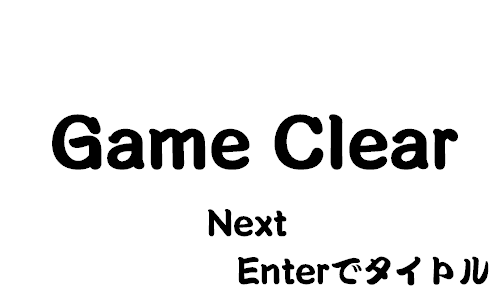
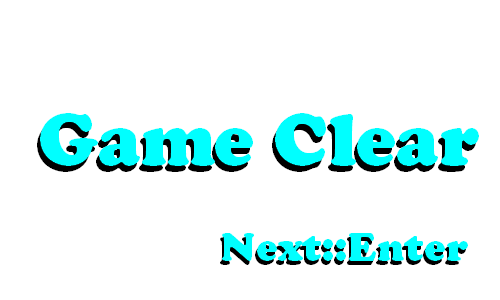
ポーズ選択完成

Changed region(s): [[0.39, 0.69, 0.99, 0.96], [0.06, 0.36, 0.51, 0.57], [0.54, 0.36, 0.96, 0.57]]

diff --git a/DirectXGame/DirectXGame/engine/secne/GameScene.cpp b/DirectXGame/DirectXGame/engine/secne/GameScene.cpp
@@ -75,12 +75,12 @@ void GameScene::Initialize() {
 	gameOverSprite_.reset(KamataEngine::Sprite::Create(gameOverTextureHandle_, {400.0f, 200.0f}));
 
 	// 出現スプライト初期化
-	spawnTextureHandle_ = TextureManager::Load("spawn.png");
+	spawnTextureHandle_ = TextureManager::Load("Danger.png");
 	spawnSprite_.reset(KamataEngine::Sprite::Create(spawnTextureHandle_, {spawnX_, 300.0f}));
 
 	isSpawnActive_ = true;
 	spawnTimer_ = 0.0f;
-	spawnX_ = -300.0f;
+	spawnX_ = -1000.0f;
 
 	fade.Initialize();
 
@@ -153,13 +153,20 @@ void GameScene::Initialize() {
 	inkSprite_ = Sprite::Create(inkTextureHandle_, { 640.0f,360.0f });
 	inkSprite_->SetSize({ 0.1f, 0.1f });
 
+	// ============= pauseスプライト =============
 	pauseTextureHandle_ = TextureManager::Load("Pause.png");
 	pauseSprite_.reset(Sprite::Create(
 		pauseTextureHandle_,
-		{ pauseStartX_, 360.0f }
+		{ pauseStartX_, 300.0f }
 	));
 
 	pauseSpriteX_ = pauseStartX_;
+	// =========================================
+
+	// =================== ルール説明スプライト ===================
+	ruleTextureHandle_ = TextureManager::Load("Rule.png");
+	ruleSprite_ = Sprite::Create(ruleTextureHandle_, { 0.0f,0.0f });
+	// ========================================================
 
 	worldTransform_.Initialize();
 	// カメラの初期化
@@ -167,6 +174,27 @@ void GameScene::Initialize() {
 }
 
 void GameScene::Update() {
+
+	// ========== ポーズのトリガー =========
+	if (input->TriggerKey(DIK_P)) {
+		isPause_ = !isPause_;
+
+		// ポーズON時は右外から出す
+		if (isPause_) {
+			pauseSpriteX_ = pauseStartX_;
+		}
+	}
+	// ======================================
+
+	// ====== ポーズ中 =======
+	if (isPause_) {
+
+		PauseUpdate();
+		// ポーズ中は更新処理をスキップ
+		return;
+	}
+	// =====================
+
 	// 背景ステージ
 	stage->Update();
 
@@ -314,11 +342,6 @@ void GameScene::Draw() {
 		}
 	}
 
-	if (isPause_) {
-		pauseSprite_->Draw();
-	}
-
-
 	Sprite::PostDraw();
 
 #pragma region 3Dオブジェクト描画
@@ -373,6 +396,15 @@ void GameScene::Draw() {
 	// イカ墨のスプライト
 	if (phase_ != 5 &&isInkActive_ && inkSprite_) {
 		inkSprite_->Draw();
+	}
+
+	// ポーズスプライト
+	if (isPause_) {
+		pauseSprite_->Draw();
+	}
+
+	if (isRule_) {
+		ruleSprite_->Draw(); // 表示
 	}
 
 	Sprite::PostDraw();
@@ -833,37 +865,14 @@ void GameScene::SquidInitialize()
 
 void GameScene::GameSecneSpriteUpdate()
 {
-	// ===================== ポーズ画面のスプライト制御 ======================
-	if (input->TriggerKey(DIK_P)) {
-		isPause_ = !isPause_;
-
-		// ポーズON時は右外から出す
-		if (isPause_) {
-			pauseSpriteX_ = pauseStartX_;
-		}
-	}
-
-	if (isPause_) {
-		// 右からスライドイン
-		if (pauseSpriteX_ > pauseTargetX_) {
-			pauseSpriteX_ -= pauseSpeed_;
-			if (pauseSpriteX_ < pauseTargetX_) {
-				pauseSpriteX_ = pauseTargetX_;
-			}
-		}
-
-		pauseSprite_->SetPosition({ pauseSpriteX_, 180.0f });
-	}
-	// ============================================================================
-
 
 	// ===================== 出現スプライトのアニメーション制御 =====================
 	if (isSpawnActive_) {
 		spawnTimer_ += 1.0f;
 
 		// 出現演出
-		float startX = -500.0f; // 左外
-		float centerX = 390.0f; // 画面中央
+		float startX = -1020.0f; // 左外
+		float centerX = 150.0f; // 画面中央
 		float endX = 1280.0f;   // 右外
 
 		if (spawnTimer_ < 90) {
@@ -921,6 +930,44 @@ void GameScene::GameSecneSpriteUpdate()
 
 	}
 	// ======================================================================
+}
+
+void GameScene::PauseUpdate()
+{
+	// ===================== ポーズ画面のスプライト制御 ======================
+
+	if (isPause_) {
+		// 右からスライドイン
+		if (pauseSpriteX_ > pauseTargetX_) {
+			pauseSpriteX_ -= pauseSpeed_;
+			if (pauseSpriteX_ < pauseTargetX_) {
+				pauseSpriteX_ = pauseTargetX_;
+			}
+		}
+
+		// 1キーで再開
+		if (isPause_) {
+			if (input->TriggerKey(DIK_1)) {
+				isPause_ = false;
+			}
+		}
+
+		// 2キーで操作ルール表示切替
+		if (isPause_) {
+			if (input->TriggerKey(DIK_2)) {
+				isRule_ = !isRule_; 
+			}
+		}
+
+		// 3キーでタイトルに戻る
+		if (isPause_) {
+			if (input->TriggerKey(DIK_3)) {
+				isReturnToTitle_ = true;
+			}
+		}
+		pauseSprite_->SetPosition({ pauseSpriteX_, 130.0f });
+	}
+	// ============================================================================
 }
 
 void GameScene::FadeUpdate()

diff --git a/DirectXGame/DirectXGame/engine/secne/GameScene.h b/DirectXGame/DirectXGame/engine/secne/GameScene.h
@@ -53,8 +53,14 @@ public:
 	// ゲーム内のスプライト更新
 	void GameSecneSpriteUpdate();
 
+	void PauseUpdate();
+
 	void FadeUpdate();
 
+	void ResetReturnFlag() { isReturnToTitle_ = false; }
+
+
+	// =================== 取得用 ========================
 	bool IsGameOver() const {
 		return (player_ && sharkTop_ && player_->IsDead() && sharkTop_->HasReturned());
 	}
@@ -66,6 +72,12 @@ public:
 	bool IsGameClear() const {
 		return isGameClear_;
 	}
+
+	bool IsReturnToTitle() const {
+		return isReturnToTitle_; 
+	}
+
+	//  =================================================
 
 private:
 	// モデル
@@ -167,6 +179,11 @@ private:
 	Sprite* inkSprite_ = nullptr;
 	uint32_t inkTextureHandle_ = 0;
 
+	// ルール説明
+	KamataEngine::Sprite* ruleSprite_ = nullptr;
+	uint32_t ruleTextureHandle_ = 0;
+	bool isRule_ = false;
+
 	bool isInkActive_ = false;
 	float inkScale_ = 0.1f;  // 墨の大きさ
 	float inkMaxScale_ = 1.5f;  // 墨のマックスサイズ
@@ -178,13 +195,13 @@ private:
 	// 出現アニメーション制御用
 	bool isSpawnActive_ = false;
 	float spawnTimer_ = 0.0f;
-	float spawnX_ = -300.0f; 
+	float spawnX_ = -1000.0f; 
 
 	// ゲームオーバーフラグ
 	bool isGameOver_ = false;
 
 	// フェーズ
-	int phaseCount_ = 5;
+	int phaseCount_ = 1;
 	int phase_ = phaseCount_;
 	bool isPhaseChanging_ = false;
 	bool isFadeActive_ = false; // フェード開始フラグ
@@ -223,6 +240,7 @@ private:
 	bool isPushSpriteVisible_ = false; 
 	int currentEffectIndex_ = 0;
 
+	// =================== イカ関連 =========================
 	// Squid 出現用
 	int squidTimer_ = 0;
 	int squidAppearTime_ = 0;
@@ -238,14 +256,17 @@ private:
 	const float inkFadeTime_ = 120.0f;   // フェード時間（2秒）
 	float inkAlpha_ = 1.0f;
 	bool isInkFading_ = false;
+	// =======================================================
 
-	// ポーズ関連
+	// =============== ポーズ関連 ========================
 	bool isPause_ = false;
 
 	float pauseSpriteX_ = 0.0f;
 	float pauseTargetX_ = 800.0f;   // 表示位置（右寄り）
 	float pauseStartX_ = 1300.0f;   // 画面右外
 	float pauseSpeed_ = 20.0f;      // スライド速度
+	bool isReturnToTitle_ = false;  // タイトルに戻るフラグ
+	// ====================================================
 
 	std::unique_ptr<KamataEngine::Sprite> pauseSprite_;
 	uint32_t pauseTextureHandle_;

diff --git a/DirectXGame/DirectXGame/engine/secne/TitleScene.cpp b/DirectXGame/DirectXGame/engine/secne/TitleScene.cpp
@@ -21,10 +21,6 @@ void TitleScene::Initialize()
 	TitleTextureHandle_ = TextureManager::Load("Title.png");
 	TitleSprite_ = Sprite::Create(TitleTextureHandle_, { 380,-50 });
 
-	// ルール説明スプライト
-	ruleTextureHandle_ = TextureManager::Load("Rule.png");
-	ruleSprite_ = Sprite::Create(ruleTextureHandle_, { 0.0f,0.0f });
-
 	titleModel_.reset(Model::CreateFromOBJ("Title"));
 	title_ = std::make_unique<TitleModel>();
 	title_->Initialize(titleModel_.get());
@@ -43,6 +39,9 @@ void TitleScene::Initialize()
 	// 点滅タイマー
 	hitAlphaTime_ = 0.0f;
 
+	// ペカリ音
+	startSoundHandle_ = Audio::GetInstance()->LoadWave("SE/Start.mp3");
+
 	// カメラの初期化
 	camera_.Initialize();
 }
@@ -59,8 +58,11 @@ void TitleScene::Update()
 	HitSprite_->SetColor({ 1.0f, 1.0f, 1.0f, alpha });
 
 	// SPACE押したらON
-	if (input->TriggerKey(DIK_SPACE)) {
+	if (input->TriggerKey(DIK_SPACE) && !isGogoOn_) {
 		isGogoOn_ = true;
+
+		// ペカリ音再生
+		Audio::GetInstance()->PlayWave(startSoundHandle_, false);
 	}
 
 	stage1->Update();
@@ -92,19 +94,12 @@ void TitleScene::Draw()
 
 	HitSprite_->Draw();
 
-	// まを描画
+	// を描画
 	gogoOFFSprite_->Draw();
 
 	// ON状態なら上から重ねる
 	if (isGogoOn_) {
 		gogoONSprite_->Draw();
-	}
-
-	if (input->TriggerKey(DIK_E)) {
-		isRule_ = !isRule_; // トグル（反転）
-	}
-	if (isRule_) {
-		ruleSprite_->Draw(); // 表示
 	}
 
 	// 3Dモデル描画後処理

diff --git a/DirectXGame/main.cpp b/DirectXGame/main.cpp
@@ -185,6 +185,28 @@ void ChangeScene() {
             fade.StartFadeIn();
             isTransitioning = false;
         }
+
+        // --------------------- タイトルに戻る ---------------------
+        if (!isTransitioning && gameScene && gameScene->IsReturnToTitle()) {
+
+            fade.StartFadeOut();
+            isTransitioning = true;
+        }
+
+        if (isTransitioning && fade.IsFadeOutEnd()
+            && gameScene && gameScene->IsReturnToTitle()) {
+
+            delete gameScene;
+            gameScene = nullptr;
+
+            titleScene = new TitleScene();
+            titleScene->Initialize();
+
+            scene = Scene::kTitleScene;
+
+            fade.StartFadeIn();
+            isTransitioning = false;
+        }
         break;
 
         // --------------------- クリア画面からタイトルへ ---------------------

diff --git a/DirectXGame/DirectXGame/engine/secne/TitleScene.h b/DirectXGame/DirectXGame/engine/secne/TitleScene.h
@@ -27,6 +27,8 @@ private:
 	KamataEngine::Camera camera_;
 	// インプット
 	KamataEngine::Input* input = KamataEngine::Input::GetInstance();
+	// オーディオ
+	KamataEngine::Audio* audio = KamataEngine::Audio::GetInstance();
 
 	// タイトル操作テクスチャハンドル
 	uint32_t HitTextureHandle_ = 0;
@@ -37,10 +39,6 @@ private:
 	uint32_t TitleTextureHandle_ = 0;
 	KamataEngine::Sprite* TitleSprite_ = nullptr;
 
-	// ルール説明
-	KamataEngine::Sprite* ruleSprite_ = nullptr;
-	uint32_t ruleTextureHandle_ = 0;
-	bool isRule_ = false;
 
 	// ================ STARTランプ ================
 	KamataEngine::Sprite* gogoOFFSprite_ = nullptr;
@@ -58,5 +56,8 @@ private:
 	std::unique_ptr<KamataEngine::Model> titleModel_;
 
 	float hitAlphaTime_ = 0.0f;
+
+	// ペカリ音
+	uint32_t startSoundHandle_ = 0;
 };
 
